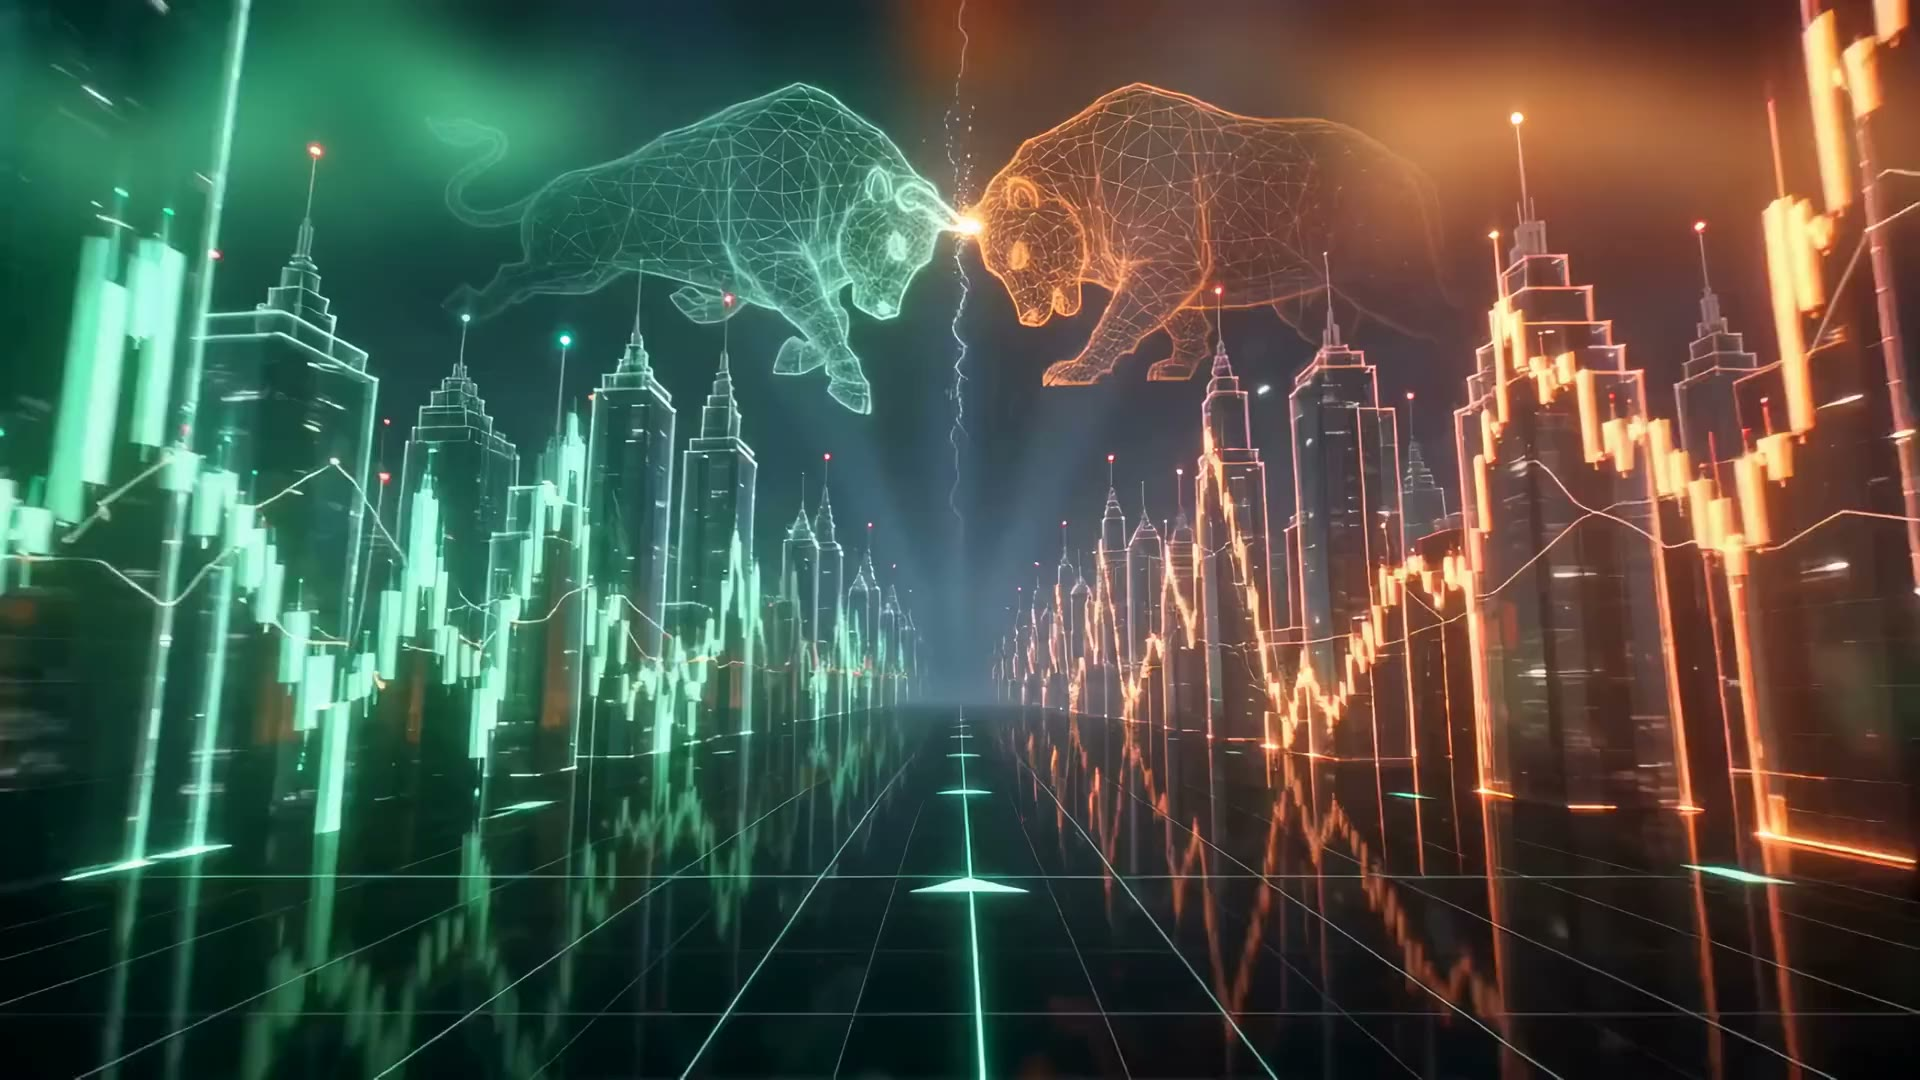
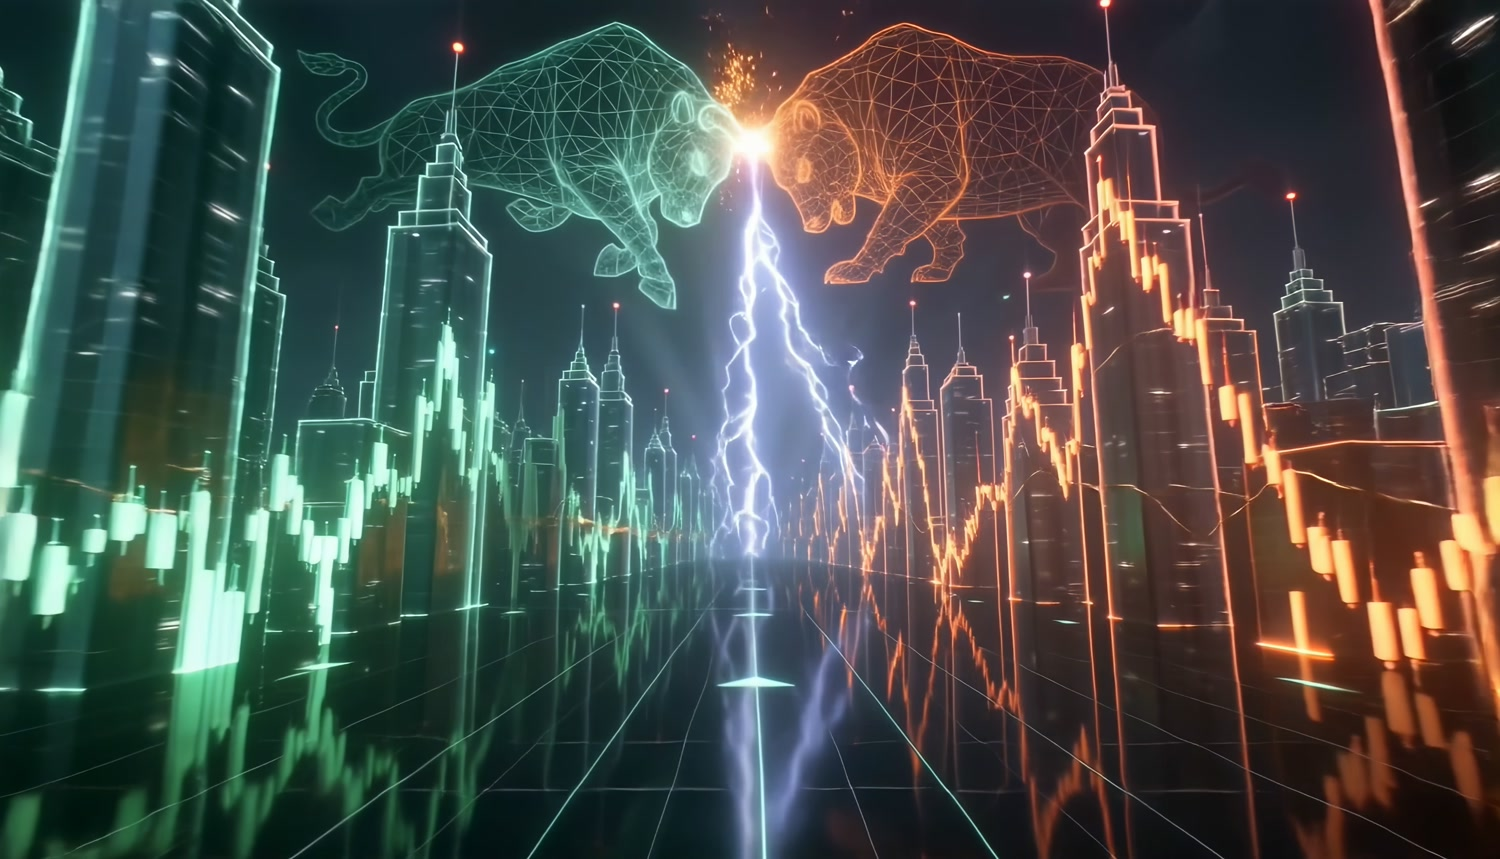
feat(site): terminal ambiance — boot sweep, live status HUD, phosphor glow + sharper mobile poster
- terminal.js injects boot scanline sweep + bottom-left live TPE clock HUD (desktop only)
- phosphor text-glow, scanline flicker, breathing live-dot
- mobile hero poster regenerated from 2K master (sharper, no video on mobile)

diff --git a/docs/terminal.css b/docs/terminal.css
@@ -156,4 +156,35 @@ nav em, .logo em, .nav-logo em, [class*="logo"] em { color:var(--amber) !importa
 /* FAQ 展開箭頭 → 磷綠 */
 .faq-item-acc.open .faq-chevron { color:#4AF626 !important; }
 
+/* ============ 終端機氛圍加料 ============ */
+/* 磷光輝光:eyebrow / 琥珀數字 / 跑馬燈點 */
+.section-eyebrow { text-shadow:0 0 12px rgba(255,176,0,.35); }
+.section-eyebrow::before { text-shadow:0 0 10px rgba(74,246,38,.5); }
+.acid-marquee b { text-shadow:0 0 16px rgba(74,246,38,.4); }
+.acid-marquee i { text-shadow:0 0 12px rgba(255,176,0,.5); }
+.live-dot { animation:md-live 1.8s ease-in-out infinite; }
+@keyframes md-live { 0%,100%{box-shadow:0 0 6px var(--phos);} 50%{box-shadow:0 0 14px var(--phos),0 0 22px rgba(74,246,38,.5);} }
+
+/* 掃描線微閃(reduced-motion 自動停) */
+@keyframes md-flicker { 0%,100%{opacity:.55;} 92%{opacity:.55;} 94%{opacity:.42;} 96%{opacity:.6;} 98%{opacity:.5;} }
+body::after { animation:md-flicker 6s steps(1,end) infinite; }
+@media (prefers-reduced-motion: reduce) { body::after { animation:none; } }
+
+/* 開機掃描 sweep(載入時磷綠橫線掃一次) */
+#md-boot { position:fixed; inset:0; z-index:99990; pointer-events:none; }
+#md-boot::before { content:''; position:absolute; left:0; right:0; height:2px;
+  background:linear-gradient(90deg, transparent, rgba(74,246,38,.85), transparent);
+  box-shadow:0 0 18px rgba(74,246,38,.7); animation:md-sweep 1.1s cubic-bezier(.4,0,.2,1) forwards; }
+@keyframes md-sweep { 0%{top:-2%; opacity:0;} 8%{opacity:1;} 92%{opacity:1;} 100%{top:102%; opacity:0;} }
+@media (prefers-reduced-motion: reduce) { #md-boot{display:none;} }
+
+/* 左下角即時狀態 HUD(terminal.js 注入) */
+#md-term-hud { position:fixed; left:18px; bottom:16px; z-index:9997; pointer-events:none;
+  font-family:'IBM Plex Mono',monospace; font-size:11px; letter-spacing:.12em; color:rgba(74,246,38,.62);
+  text-shadow:0 0 10px rgba(74,246,38,.3); user-select:none; }
+#md-term-hud .amb { color:rgba(255,176,0,.7); }
+#md-term-hud .dot { display:inline-block; width:6px; height:6px; border-radius:50%; background:var(--phos);
+  box-shadow:0 0 7px var(--phos); margin-right:6px; vertical-align:middle; animation:md-live 1.8s ease-in-out infinite; }
+@media (max-width:760px){ #md-term-hud { display:none; } }
+
 :lang(en) .hero h1, html[data-lang="en"] .hero h1 { font-family:'Archivo Expanded','Inter',sans-serif; text-transform:uppercase; }

diff --git a/docs/terminal.js b/docs/terminal.js
@@ -1,0 +1,32 @@
+/* Phosphor Terminal — 氛圍注入(開機掃描 + 左下角即時狀態 HUD)
+   純附加,fixed/pointer-events:none,不碰既有 DOM 與功能 */
+(function () {
+  var reduce = window.matchMedia && window.matchMedia('(prefers-reduced-motion: reduce)').matches;
+
+  // 開機掃描 sweep(只一次)
+  if (!reduce) {
+    var boot = document.createElement('div');
+    boot.id = 'md-boot';
+    document.body.appendChild(boot);
+    setTimeout(function () { boot.remove(); }, 1400);
+  }
+
+  // 左下角即時狀態 HUD + 台北時鐘
+  var hud = document.createElement('div');
+  hud.id = 'md-term-hud';
+  hud.setAttribute('aria-hidden', 'true');
+  hud.innerHTML = '<span class="dot"></span>SYSTEM ONLINE · <span class="amb">TPE</span> <span id="md-clock">--:--:--</span>';
+  document.body.appendChild(hud);
+
+  var clk = hud.querySelector('#md-clock');
+  function tick() {
+    try {
+      var s = new Date().toLocaleTimeString('en-GB', { timeZone: 'Asia/Taipei', hour12: false });
+      if (clk) clk.textContent = s;
+    } catch (e) {
+      var d = new Date(); clk.textContent = d.toTimeString().slice(0, 8);
+    }
+  }
+  tick();
+  setInterval(tick, 1000);
+})();

diff --git a/docs/index.html b/docs/index.html
@@ -3039,5 +3039,6 @@ MDTour.mount([
     body: { zh: "你會看到兩個方案 —— 免費版(留 Email 直接訂閱,週一到週六早上 7 點收日報,週日休息一天)或 Premium 試讀(首月 NT$299,解鎖個人化分析 + LINE Bot 對話)。週六是「本週回顧 + 下週重點」特別版。之後想登入「我的專區」時,系統才會請你設一組密碼。", en: "You’ll see two plans — Free (just leave your email; digest arrives Mon–Sat at 7AM TWT, Sun off) or Premium trial (first month NT$299, unlocks personalized analysis + LINE Bot chat). Saturday is a special 'weekly recap + next-week catalysts' edition. You’ll only set a password later when logging in to “My Account.”" } }
 ], { tourId: "index", auto: true });
 </script>
+<script src="terminal.js?v=1"></script>
 </body>
 </html>

diff --git a/docs/privacy.html b/docs/privacy.html
@@ -116,5 +116,6 @@ footer { text-align: center; padding: 36px 24px; border-top: 1px solid rgba(255,
 </div>
 
 <footer>MarketDaily · marketdaily.ai · 僅供參考,非投資建議</footer>
+<script src="terminal.js?v=1"></script>
 </body>
 </html>

diff --git a/docs/terms.html b/docs/terms.html
@@ -112,5 +112,6 @@ footer { text-align: center; padding: 36px 24px; border-top: 1px solid rgba(255,
 </div>
 
 <footer>MarketDaily · marketdaily.ai · 僅供參考,非投資建議</footer>
+<script src="terminal.js?v=1"></script>
 </body>
 </html>

diff --git a/docs/contact.html b/docs/contact.html
@@ -432,5 +432,6 @@ async function submitSupport() {
 applyLang(localStorage.getItem('md-lang-v2') || 'zh');
 </script>
 <script src="ui-pro.js?v=20260610a"></script>
+<script src="terminal.js?v=1"></script>
 </body>
 </html>

diff --git a/docs/track-record.html b/docs/track-record.html
@@ -899,5 +899,6 @@ function applyLang(lang) {
 function toggleLang() { applyLang(currentLang === "zh" ? "en" : "zh"); }
 applyLang(currentLang);
 </script>
+<script src="terminal.js?v=1"></script>
 </body>
 </html>

diff --git a/docs/pricing.html b/docs/pricing.html
@@ -1385,5 +1385,6 @@ async function submitFree() {
 /* ── Init lang ── */
 applyLang(localStorage.getItem('md-lang-v2') || 'zh');
 </script>
+<script src="terminal.js?v=1"></script>
 </body>
 </html>

diff --git a/docs/about.html b/docs/about.html
@@ -592,5 +592,6 @@ function toggleLang() {
   btn.textContent = btn.textContent === "EN" ? "中文" : "EN";
 }
 </script>
+<script src="terminal.js?v=1"></script>
 </body>
 </html>

diff --git a/docs/guide.html b/docs/guide.html
@@ -358,5 +358,6 @@ function toggleLang() {
 applyLang(localStorage.getItem('md-lang-v2') || 'zh');
 </script>
 
+<script src="terminal.js?v=1"></script>
 </body>
 </html>

diff --git a/docs/success.html b/docs/success.html
@@ -171,5 +171,6 @@ function toggleLang() {
 
 applyLang(localStorage.getItem('md-lang-v2') || 'zh');
 </script>
+<script src="terminal.js?v=1"></script>
 </body>
 </html>

diff --git a/docs/vs.html b/docs/vs.html
@@ -705,5 +705,6 @@ function toggleLang() {
 
 applyLang(localStorage.getItem("md-lang-v2") || "zh");
 </script>
+<script src="terminal.js?v=1"></script>
 </body>
 </html>
